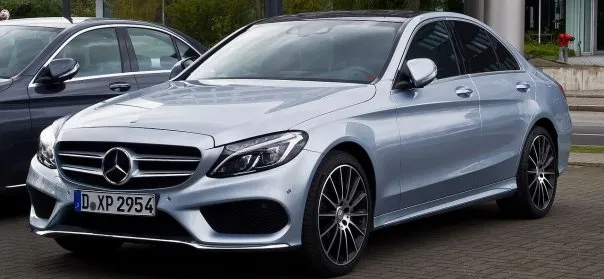
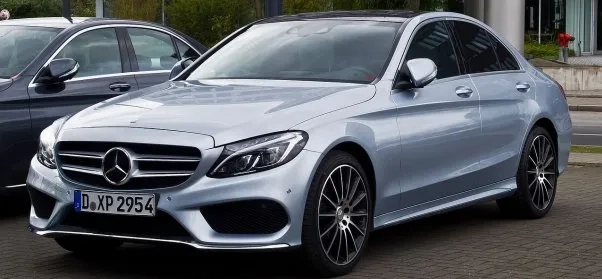
246

diff --git a/pic/ja_mb_img_c.html b/pic/ja_mb_img_c.html
@@ -657,8 +657,8 @@
 						<a href="full/c/w205_r.jpg"><img loading="lazy" src="style/c/w205_r.webp" alt="メルセデス,W205,Cクラス,リヤ" width="721" height="363"></a>
 						<a href="full/c/w205_d.jpg"><img loading="lazy" src="style/c/w205_d.webp" alt="メルセデス,W205,Cクラス,ダッシュボード" width="484" height="363"></a>
 						<h5>AMG Line</h5>
-						<a href="full/c/w205_f_amg.jpg"><img loading="lazy" src="style/c/w205_f_amg.webp" alt="メルセデス,W205,Cクラス,AMG Line,フロント" width="604" height="279"></a>
-						<a href="full/c/w205_r_amg.jpg"><img loading="lazy" src="style/c/w205_r_amg.webp" alt="メルセデス,W205,Cクラス,AMG Line,リヤ" width="604" height="279"></a>
+						<a href="full/c/w205_f_amg.jpg"><img loading="lazy" src="style/c/w205_f_amg.webp" alt="メルセデス,W205,Cクラス,AMG Line,フロント" width="602" height="279"></a>
+						<a href="full/c/w205_r_amg.jpg"><img loading="lazy" src="style/c/w205_r_amg.webp" alt="メルセデス,W205,Cクラス,AMG Line,リヤ" width="602" height="279"></a>
 						<h5 class="i">Facelift</h5>
 						<p class="i m1">03/2018</p><br>
 						<a href="full/c/w205_f2.jpg"><img loading="lazy" src="style/c/w205_f2.webp" alt="メルセデス,W205,Cクラス,フロント" width="1210" height="806"></a><br>

diff --git a/pic/mb_img_c.html b/pic/mb_img_c.html
@@ -657,8 +657,8 @@
 						<a href="full/c/w205_r.jpg"><img loading="lazy" src="style/c/w205_r.webp" alt="Mercedes,W205,C-klasse,Heckansicht" width="721" height="363"></a>
 						<a href="full/c/w205_d.jpg"><img loading="lazy" src="style/c/w205_d.webp" alt="Mercedes,W205,C-klasse,Instrumententafel" width="484" height="363"></a>
 						<h5>AMG Line</h5>
-						<a href="full/c/w205_f_amg.jpg"><img loading="lazy" src="style/c/w205_f_amg.webp" alt="Mercedes,W205,C-klasse,AMG Line,Frontansicht" width="604" height="279"></a>
-						<a href="full/c/w205_r_amg.jpg"><img loading="lazy" src="style/c/w205_r_amg.webp" alt="Mercedes,W205,C-klasse,AMG Line,Heckansicht" width="604" height="279"></a>
+						<a href="full/c/w205_f_amg.jpg"><img loading="lazy" src="style/c/w205_f_amg.webp" alt="Mercedes,W205,C-klasse,AMG Line,Frontansicht" width="602" height="279"></a>
+						<a href="full/c/w205_r_amg.jpg"><img loading="lazy" src="style/c/w205_r_amg.webp" alt="Mercedes,W205,C-klasse,AMG Line,Heckansicht" width="602" height="279"></a>
 						<h5 class="i">Modellpflege</h5>
 						<p class="i m1">03/2018</p><br>
 						<a href="full/c/w205_f2.jpg"><img loading="lazy" src="style/c/w205_f2.webp" alt="Mercedes,W205,C-klasse,Frontansicht" width="1210" height="806"></a><br>
